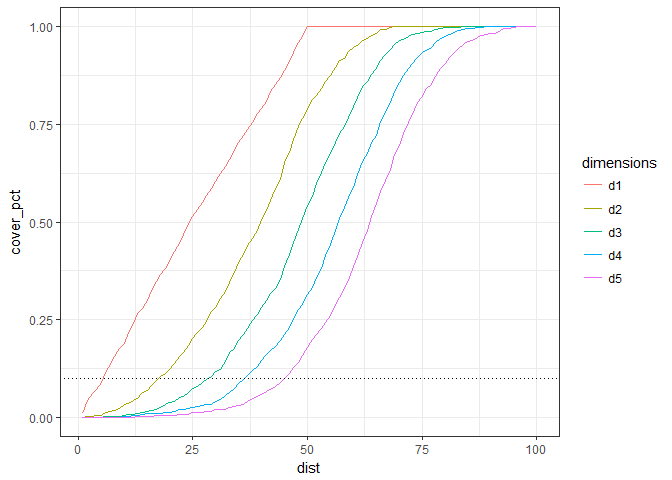
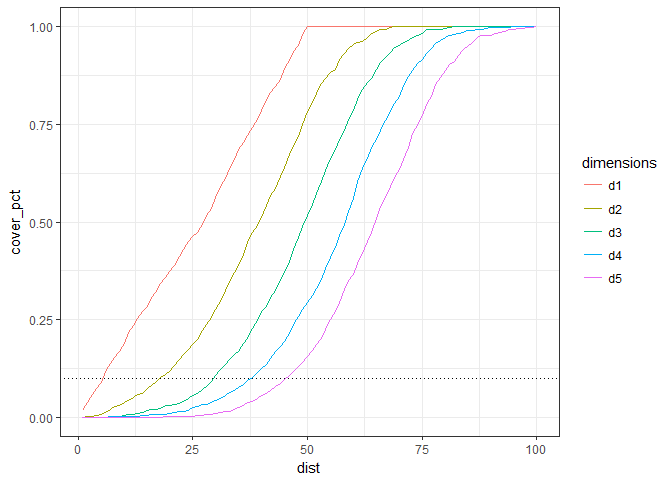
Intro and conclusion Speling check

diff --git a/Chapter01 - Intro/Curse_of_Dimensionality.md b/Chapter01 - Intro/Curse_of_Dimensionality.md
@@ -6,11 +6,19 @@ output:
     keep_md: true
 ---
 
-## One Dimension
+## Introduction
 
-This R Notebook reproduces the _Curse of Dimensionality_[^1] in the _nearest neighbor regression_ that here is defined as *the increasing of the interval size* to get 10% of the data *acording with the increasing of dimentions*. So acording more dimentions are add to the domain, greater is the size of the range to get the same proportion of datapoints. Conforming we increase the size of the range we lost "locality" of the information, losing the capacity to resume the information with a simple average.
+This R Notebook reproduces the **Curse of Dimensionality**[^1] in the _nearest neighbor regression_ that here is defined as *the increasing of the interval size* to get 10% of the data *acording with the increasing of dimentions*. So according more dimensions are add to the domain, greater is the size of the range to get the same proportion of data points. Conforming we increase the size of the range we lost "locality" of the information, losing the capacity to resume the information with a simple average.
 
-Let's see this in 1 and 2 dimensions.
+## Nearest Neighbor Moving Average
+
+In this article, the _curse of dimensionality_ comes from try to use of _Nearest Neighbor_ as predictors for a function. We iteratively select 10% of nearest points in the dataset at a specific point X~0~ and calculates the average of these points to use as the result of  prediction of a function in at the X~0~ point.
+
+With lower dimensionality (around 4) and a great number of sample this is a great technique and easy to use, to compute and to interpret, but according the number of dimensions increase, we loose the locality of the information because to get 10% of the points we need do increase the interval arount the X~0~. Let's see this effect in a simulation data.
+
+## Dataset
+
+Let's build a 5 dimensional data set 
 
 
 ```r
@@ -37,7 +45,7 @@ ggplot(dt, aes(x=x, y=y)) + geom_point() + coord_fixed(ratio = 1) + theme_bw()
 
 ![](Curse_of_Dimensionality_files/figure-html/one_dim-1.png)<!-- -->
 
-Let's supose that we need to get 10% of points around `x=50` (100 points), what is the size of interval necessary to get these points?
+Let's suppose that we need to get 10% of points around `x=50` (100 points), what is the size of interval necessary to get these points?
 
 
 ```r
@@ -46,11 +54,11 @@ x_dist
 ```
 
 ```
-##      10% 
-## 9.166418
+##     10% 
+## 9.25175
 ```
 
-We can see that in one dimention the size of the range necessary to get 10% of the datapoints are around 10% of this dimentions (uniform distributed)
+We can see that in one dimension the size of the range necessary to get 10% of the data points are around 10% of this dimensions (uniform distributed)
 
 
 ```r
@@ -81,12 +89,12 @@ dt %>%
 ```
 
 ```
-## [1] 80
+## [1] 87
 ```
 
 ## Two Dimension
 
-Now, lets see the case in two dimentions, firts we'll use the same interval found in one dimention case: 9.1664177, but in this case, we need to check points around `(x=50, y=50)`.
+Now, lets see the case in two dimensions, first we'll use the same interval found in one dimension case: 9.2517502, but in this case, we need to check points around `(x=50, y=50)`.
 
 
 ```r
@@ -105,7 +113,7 @@ ggplot(dt, aes(x=x, y=y, colour=in_interval)) +
 
 ![](Curse_of_Dimensionality_files/figure-html/twodim-1.png)<!-- -->
 
-Now wee see that the number of point get in this range is significantly lower than previus case.
+Now wee see that the number of point get in this range is significantly lower than previous case.
 
 
 ```r
@@ -120,10 +128,10 @@ sel_points
 ```
 
 ```
-## [1] 23
+## [1] 31
 ```
 
-In fact, with the new distance, we can only reach 2.3 % of the datapoints adding one dimention. Can we find how much be the size of the radius to get 10% of the points?
+In fact, with the new distance, we can only reach 3.1 % of the data points adding one dimension. Can we find how much be the size of the radius to get 10% of the points?
 
 
 ```r
@@ -163,10 +171,10 @@ print(twoDim10pct)
 ## # A tibble: 1 x 3
 ##    dist points    pct
 ##   <int>  <int>  <dbl>
-## 1    17     95 0.0950
+## 1    17     91 0.0910
 ```
 
-The distance to get 10% of data points are 17 in size, about twice the original range in one dimention.
+The distance to get 10% of data points are 17 in size, about twice the original range in one dimension.
 
 
 ```r
@@ -187,7 +195,7 @@ ggplot(dt, aes(x=x, y=y, colour=in_interval)) +
 
 ## More dimentions
 
-We can generalize and see the impact in the size of range along the adicional dimension?
+We can generalize and see the impact in the size of range along the additional dimension?
 
 
 ```r
@@ -241,10 +249,13 @@ multDimCases %>%
 ##   <fctr>     <int>
 ## 1 d1             5
 ## 2 d2            17
-## 3 d3            28
-## 4 d4            36
+## 3 d3            29
+## 4 d4            37
 ## 5 d5            45
 ```
 
+## Conclusion
 
-^1: https://en.wikipedia.org/wiki/Curse_of_dimensionality
+We can see cleary how the effect of the increase of the data dimensionality afects the size of interval, at 5-dimensions is necessary that half of total lenght of data points to get 10% of the data set, destroying the "locality" information. 
+
+[^1]: https://en.wikipedia.org/wiki/Curse_of_dimensionality
